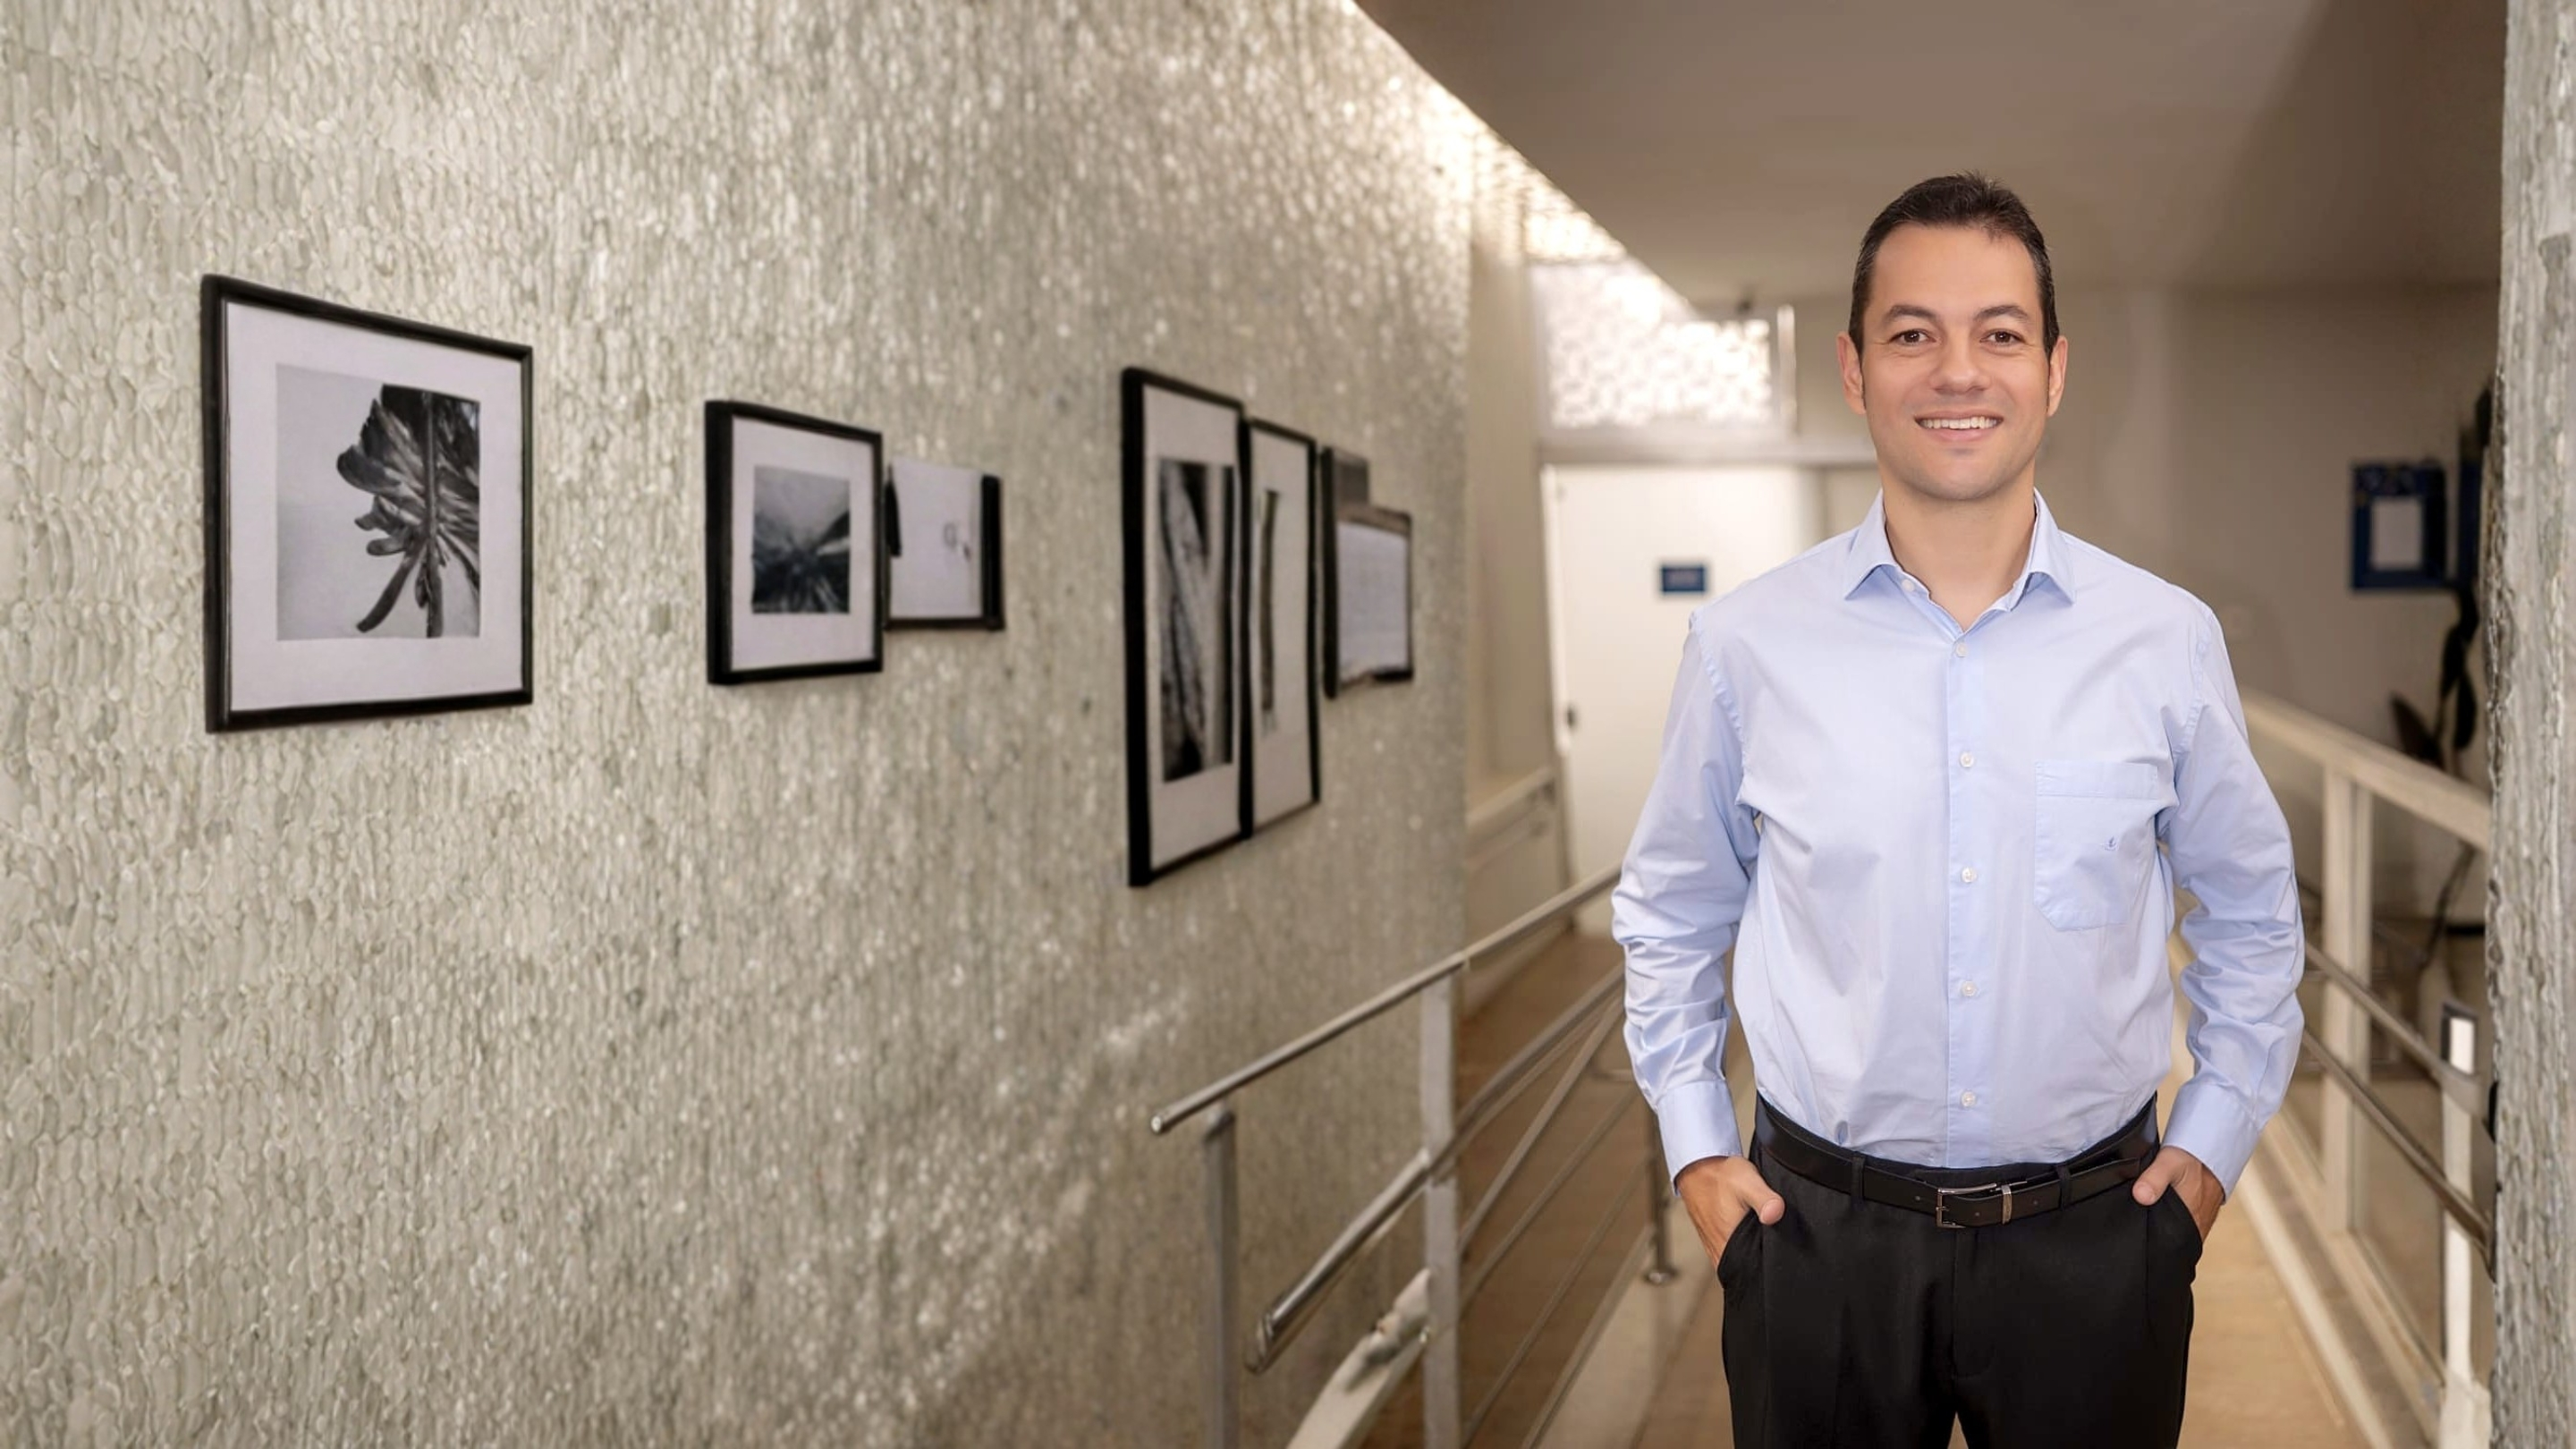
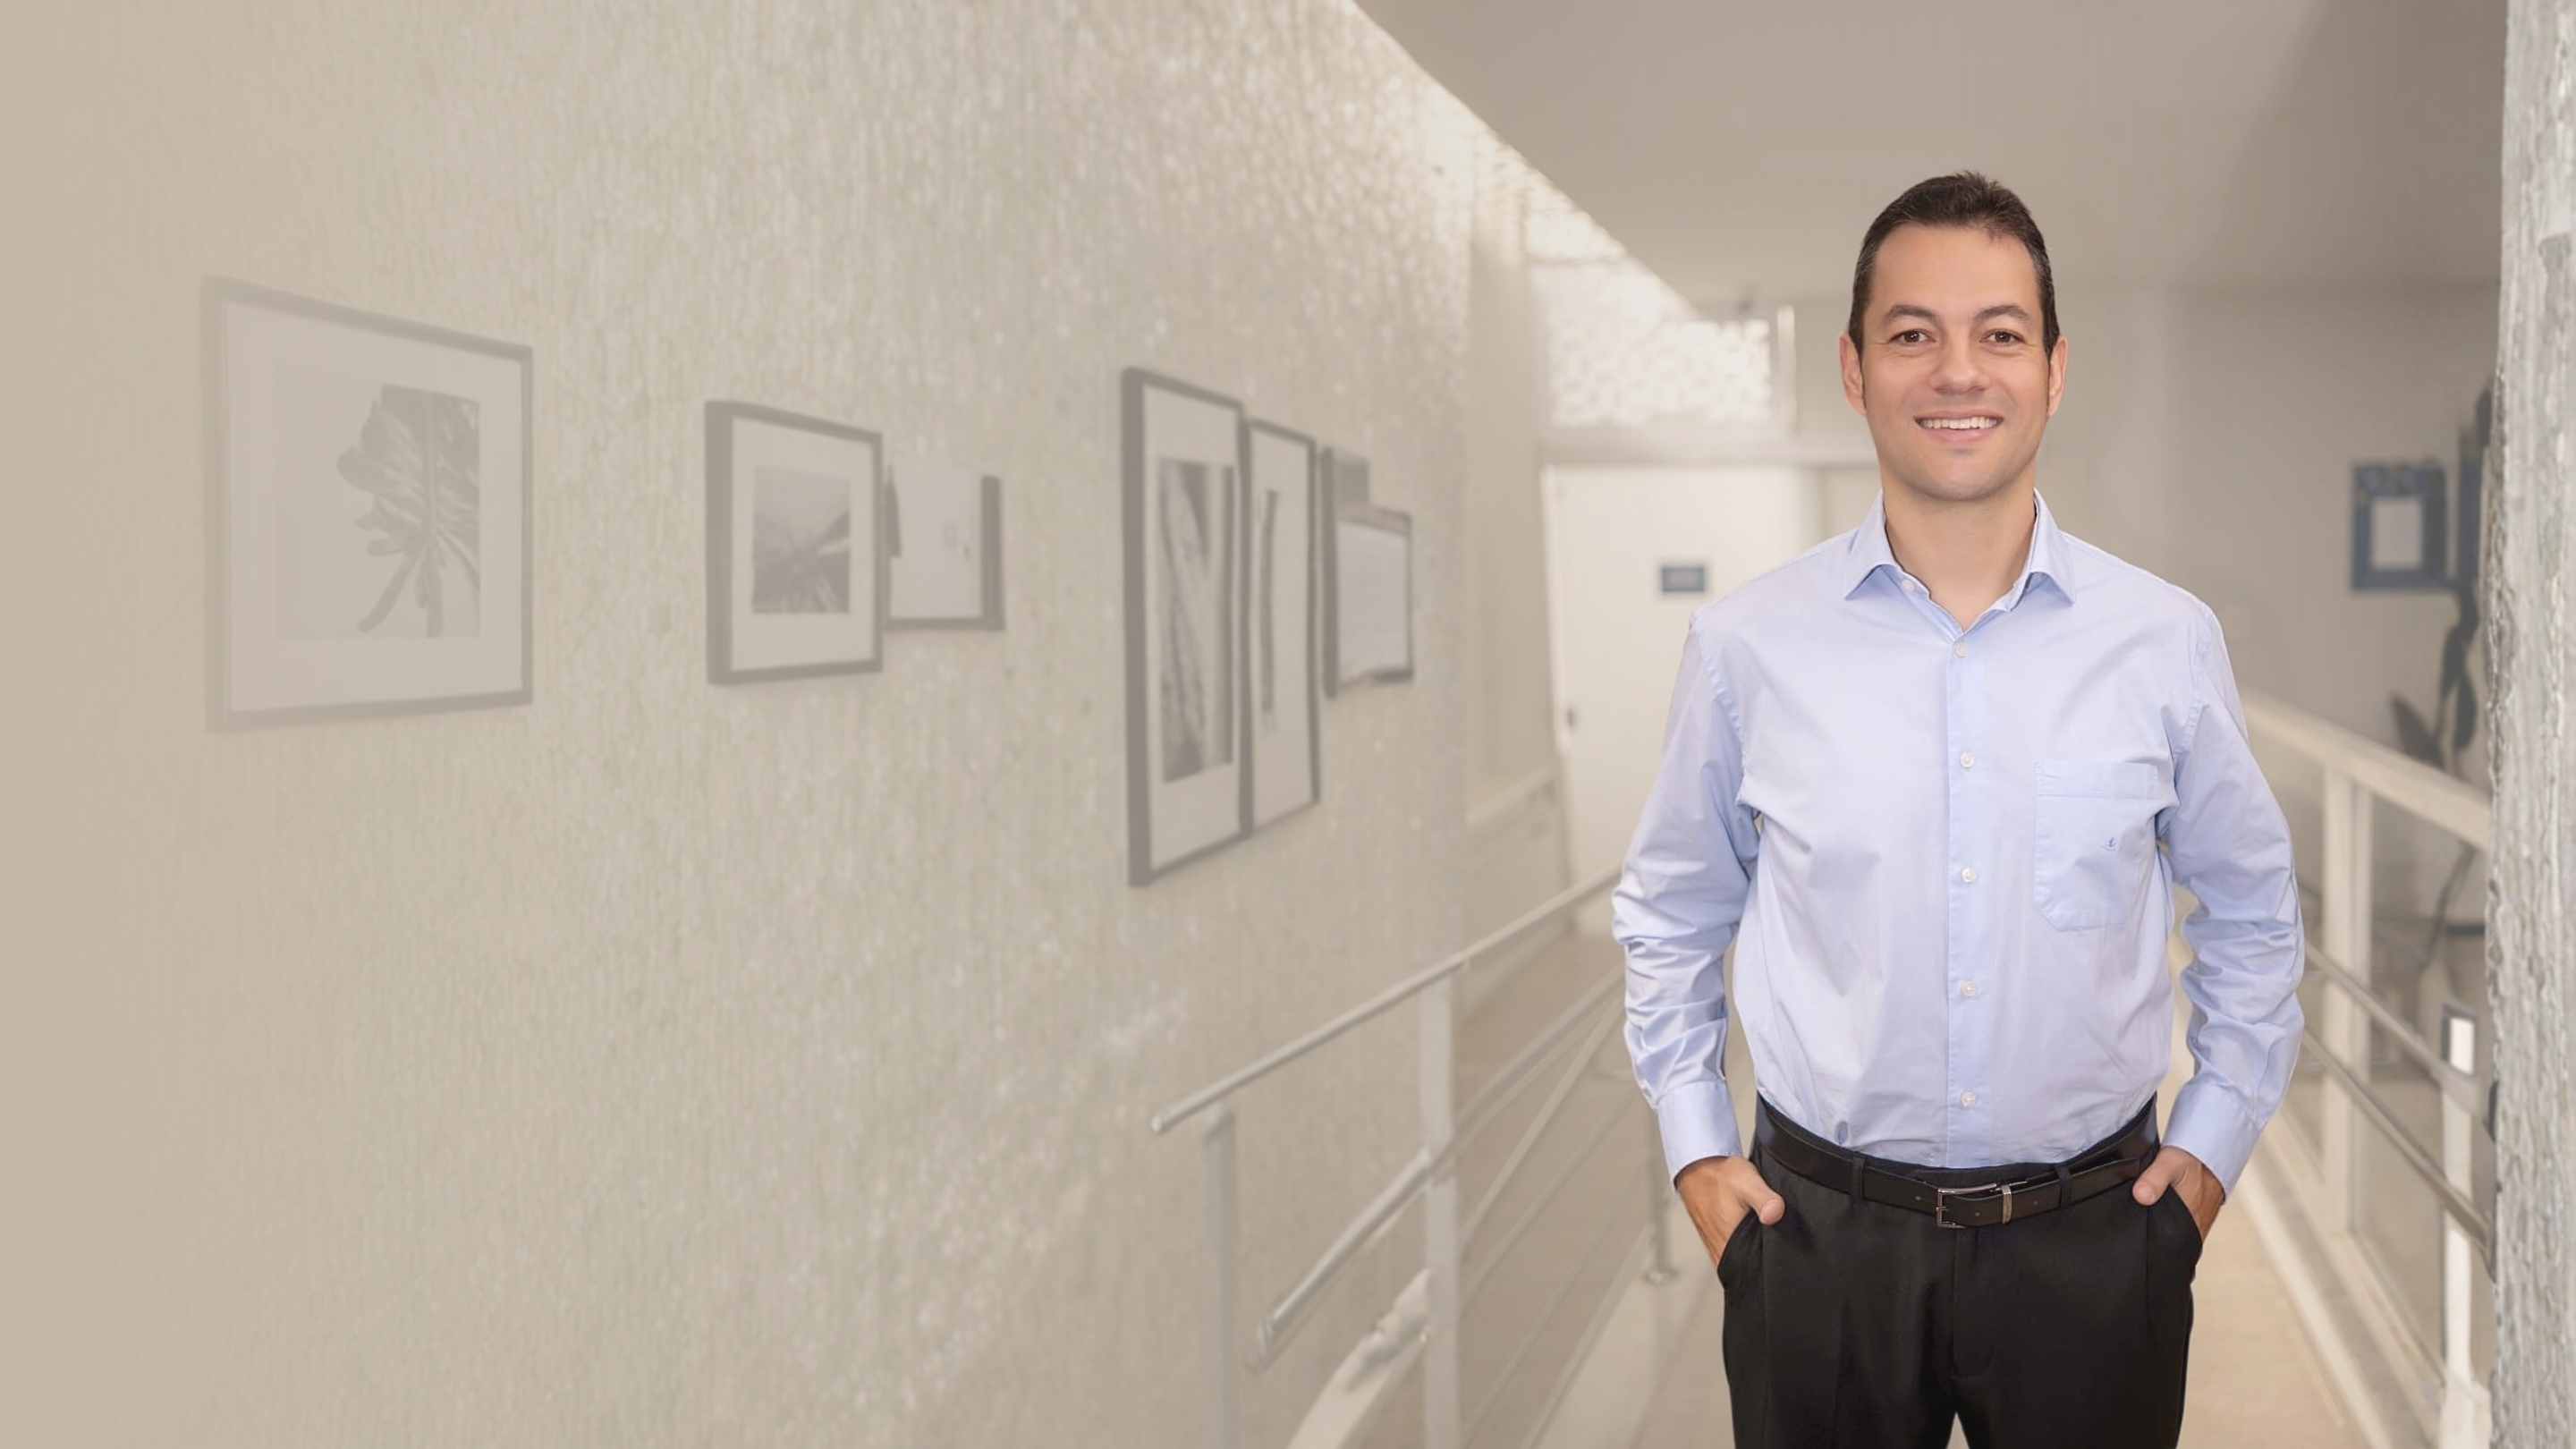
Alterando Fundo de Imagem e Textos

diff --git a/index.html b/index.html
@@ -56,7 +56,9 @@
                 <p class="hero-description">
                     Especialista em cirurgia a laser, cirurgia robótica e técnicas minimamente invasivas para tratamento
                     de doenças colorretais e hérnias. Tecnologia de ponta para sua recuperação mais rápida e menos
-                    dolorosa.
+                    dolorosa. <br><br>
+
+                    <span>+13 Anos de Experiência, 2k+ Cirurgias Realizadas, 11 Especialidades Cirúrgicas, 4★ Equipe Especializada </span>
                 </p>
                 <div class="hero-actions">
                     <a href="#contact" class="btn-primary">
@@ -77,7 +79,8 @@
                     </a>
                 </div>
             </div>
-
+            
+            <!-- Stats Grid 
             <div class="hero-right">
                 <div class="hero-stats-grid">
                     <div class="stat-card">
@@ -116,8 +119,8 @@
                         <span>Alta Especialização</span>
                     </div>
                 </div>
-            </div>
-        </div>
+            </div> 
+        </div> -->
 
         <div class="hero-scroll">
             <span>Explore</span>

diff --git a/style.css b/style.css
@@ -158,7 +158,7 @@
         /* ===== HERO ===== */
         #hero {
             min-height: 100vh;
-            background: var(--navy);
+            background: url('HeroImage2.jpg') left/cover no-repeat;
             position: relative;
             display: flex;
             align-items: center;